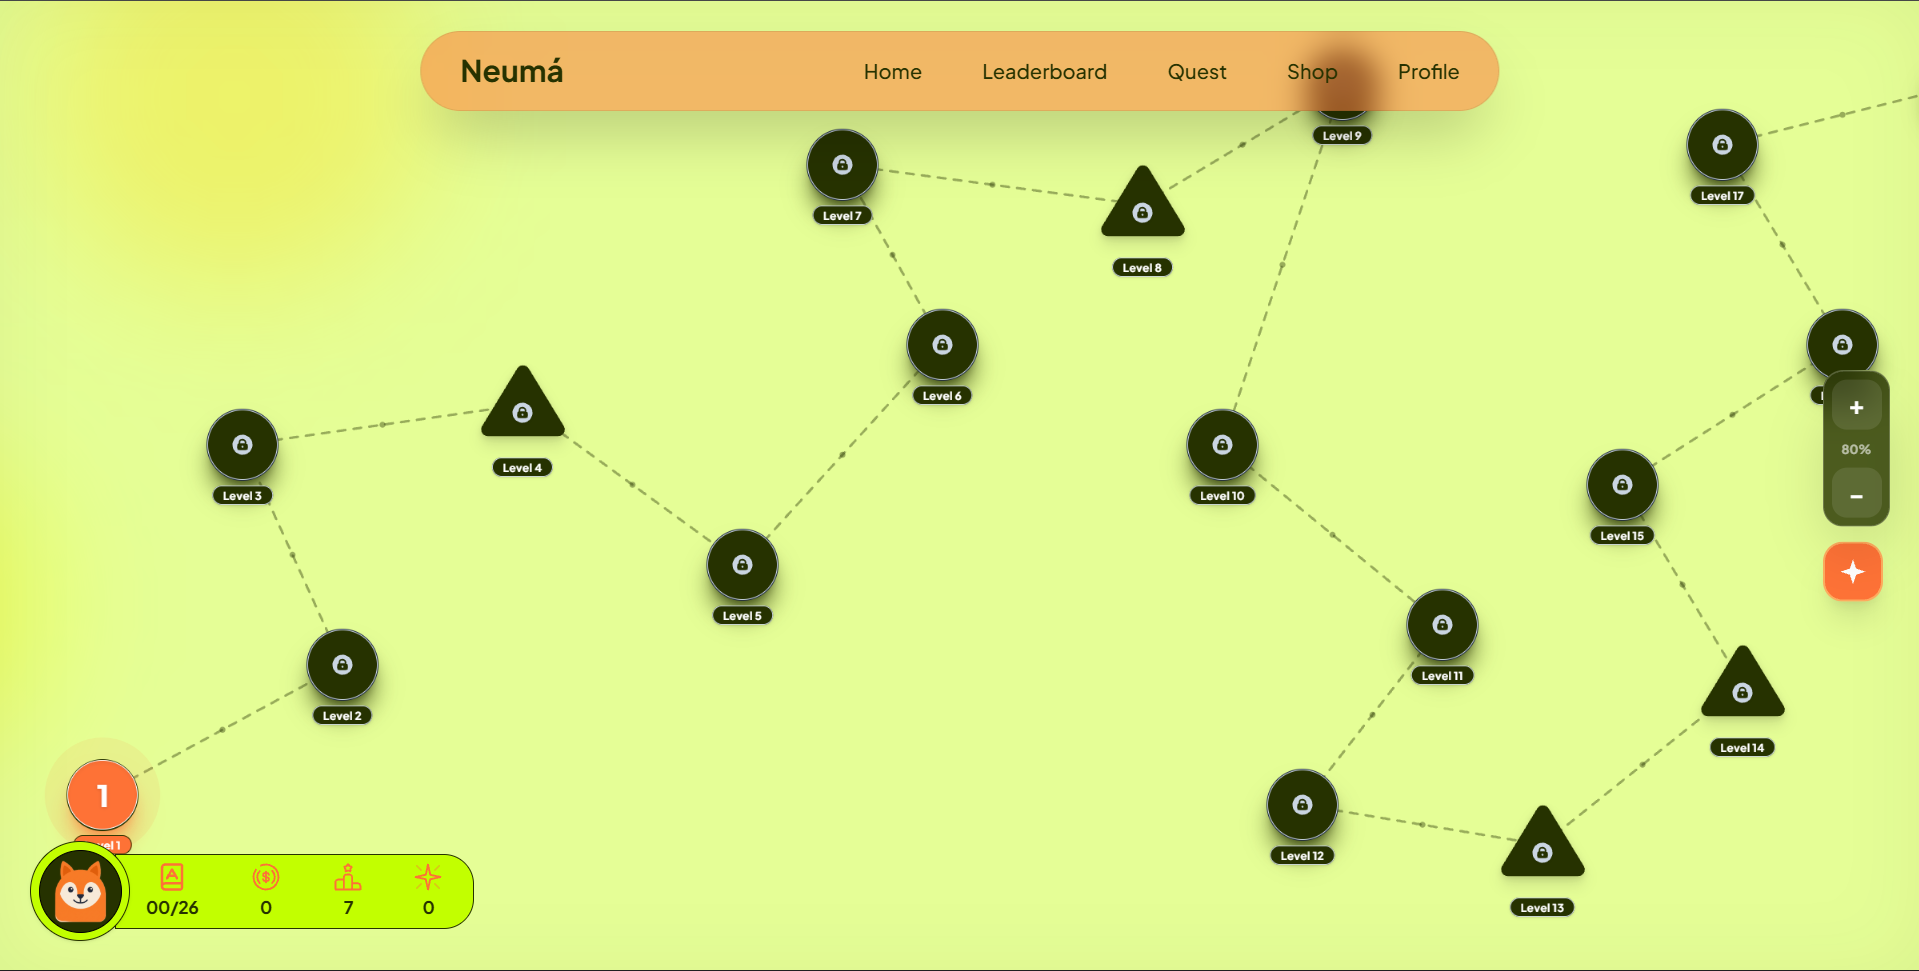
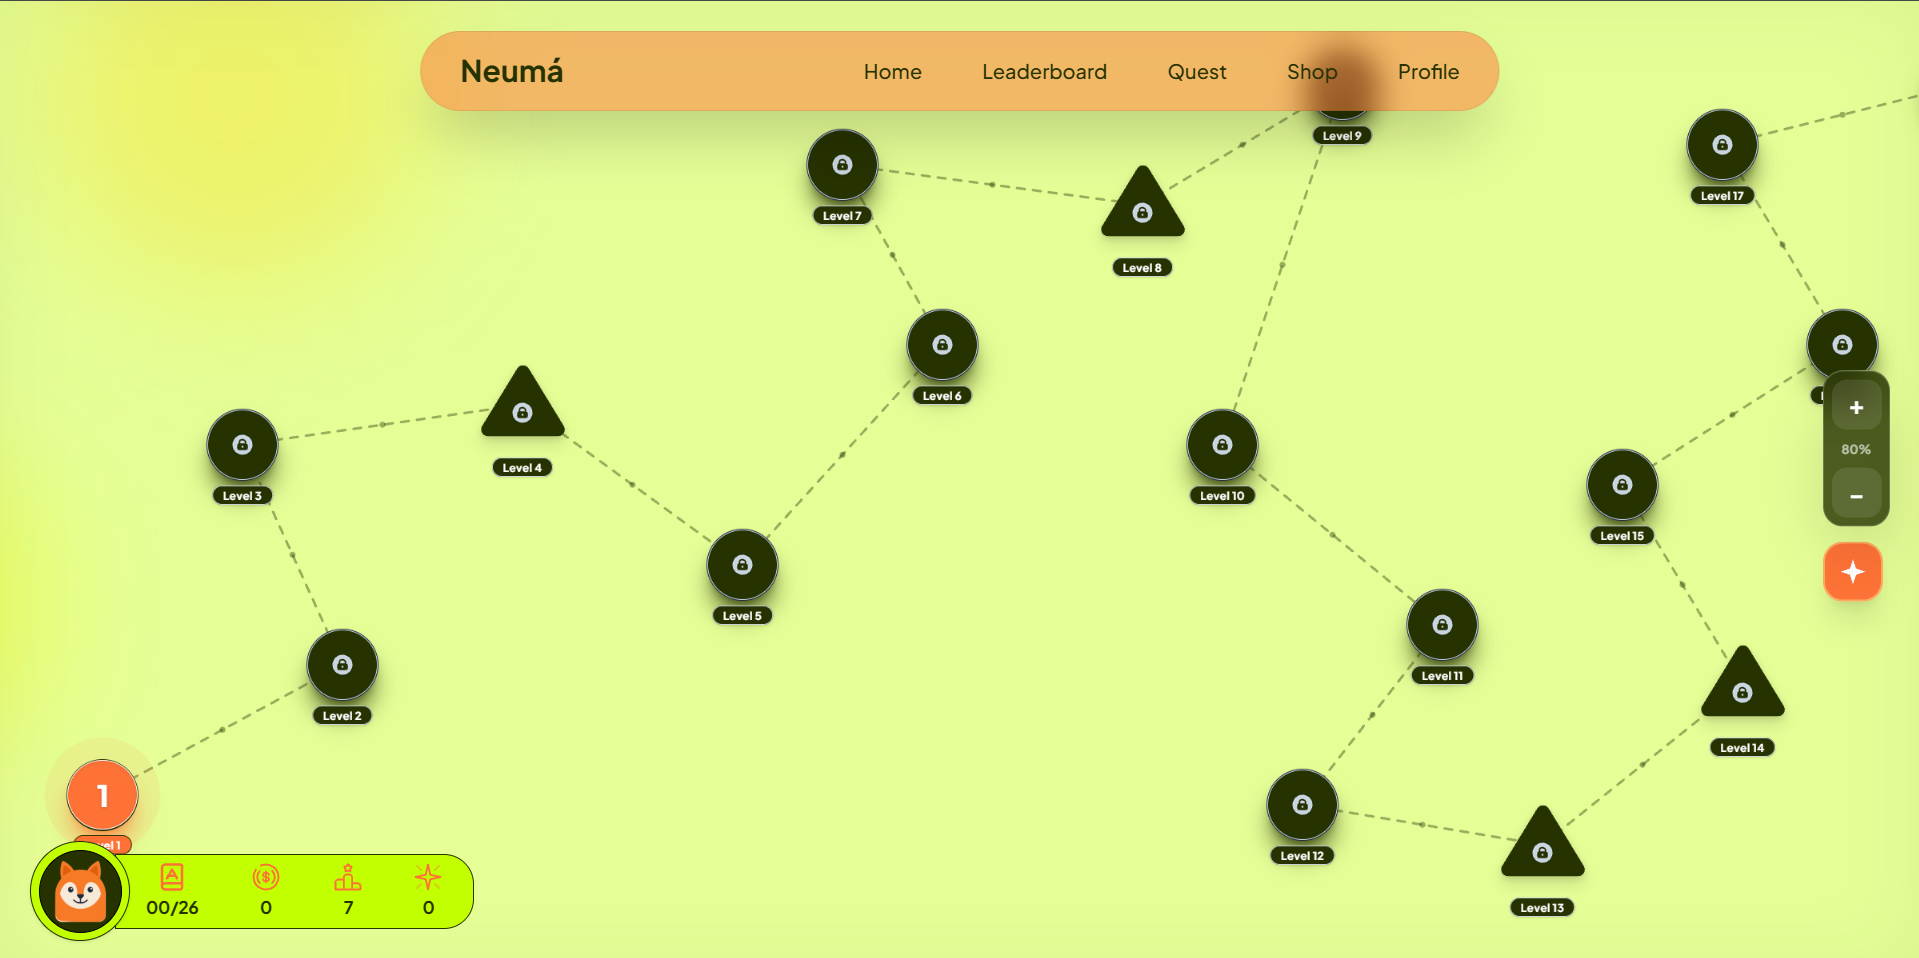
fix: static page style

diff --git a/src/App.jsx b/src/App.jsx
@@ -173,8 +173,8 @@ function App() {
         <TopBar brand='Neumá' links={navLinks} />
         <div className='flex flex-col items-center animate-fade-in-up'>
           <div className=''>
-            <h1 className='text-tertiary text-5xl text-center p-6'>Neumá</h1>
-            <h3 className='text-secondary text-2xl text-center font-medium mb-6'>Break the Silence, Bridge the World.</h3>
+            <h1 className='text-tertiary text-4xl md:text-5xl text-center p-4 md:p-6'>Neumá</h1>
+            <h3 className='text-secondary text-;lg md:text-2xl text-center font-medium mb-6'>Break the Silence, Bridge the World.</h3>
           </div>
           <div className='flex flex-col md:flex-row gap-2 md:gap-6'>
             <FillRoundedButton
@@ -212,7 +212,7 @@ function App() {
 
       <div className='bg-primary h-[40vh] lg:h-screen md:px-8 lg:px-16'>
         <div className='h-full w-full bg-tertiary md:rounded-t-4xl flex flex-col md:justify-between'>
-          <div className='text-lg md:text-3xl lg:text-4xl py-10 font-bold  text-primary flex flex-col items-center justify-center'>
+          <div className='text-lg md:text-3xl lg:text-4xl px-4 py-6 md:py-10 font-bold  text-primary flex flex-col items-center justify-center'>
             <span className='text-center'>
               {lang === 'id' ? "Rasakan pengalaman baru dalam belajar bahasa isyarat" : "Experience a new experience in learning sign language"}
             </span>
@@ -225,19 +225,19 @@ function App() {
       </div>
 
       <div ref={sectionRef} className='bg-primary h-[400vh] relative'>
-        <div className='sticky top-0 h-screen px-16 flex flex-col justify-center items-center text-6xl font-bold gap-8 overflow-hidden'>
+        <div className='sticky top-0 h-screen px-16 flex flex-col justify-center items-center text-5xl md:text-6xl font-bold gap-8 overflow-hidden'>
 
           {/* Mascots Background */}
-          <img src={mascot_1} alt="Mascot 1" className='absolute top-[10%] left-[10%] float-1 w-20 md:w-32 object-contain' />
-          <img src={mascot_2} alt="Mascot 2" className='absolute top-[15%] right-[12%] float-2 w-24 md:w-36 object-contain' />
-          <img src={mascot_3} alt="Mascot 3" className='absolute bottom-[15%] left-[8%] float-3 w-16 md:w-28 object-contain' />
-          <img src={mascot_4} alt="Mascot 4" className='absolute bottom-[10%] right-[10%] float-4 w-20 md:w-32 object-contain' />
-          <img src={mascot_5} alt="Mascot 5" className='absolute top-[40%] left-[5%] float-4 w-16 md:w-28 object-contain' />
-          <img src={mascot_6} alt="Mascot 6" className='absolute top-[45%] right-[5%] float-3 w-20 md:w-32 object-contain' />
+          <img src={mascot_1} alt="Mascot 1" className='absolute top-[10%] left-[10%] float-1 w-15 md:w-32 object-contain' />
+          <img src={mascot_2} alt="Mascot 2" className='absolute top-[15%] right-[12%] float-2 w-20 md:w-36 object-contain' />
+          <img src={mascot_3} alt="Mascot 3" className='absolute bottom-[15%] left-[8%] float-3 w-11 md:w-28 object-contain' />
+          <img src={mascot_4} alt="Mascot 4" className='absolute bottom-[10%] right-[10%] float-4 w-15 md:w-32 object-contain' />
+          <img src={mascot_5} alt="Mascot 5" className='absolute top-[40%] left-[5%] float-4 w-11 md:w-28 object-contain' />
+          <img src={mascot_6} alt="Mascot 6" className='absolute top-[45%] right-[5%] float-3 w-15 md:w-32 object-contain' />
           <img src={mascot_7} alt="Mascot 7" className='absolute top-[5%] left-[45%] float-1 w-12 md:w-24 object-contain' />
-          <img src={mascot_8} alt="Mascot 8" className='absolute bottom-[5%] left-[45%] float-2 w-16 md:w-28 object-contain' />
-          <img src={mascot_9} alt="Mascot 9" className='absolute top-[30%] left-[25%] float-2 w-12 md:w-20 object-contain' />
-          <img src={mascot_10} alt="Mascot 10" className='absolute bottom-[30%] right-[25%] float-1 w-16 md:w-24 object-contain' />
+          <img src={mascot_8} alt="Mascot 8" className='absolute bottom-[5%] left-[45%] float-2 w-12 md:w-28 object-contain' />
+          <img src={mascot_9} alt="Mascot 9" className='absolute top-[30%] left-[25%] float-2 w-13 md:w-20 object-contain' />
+          <img src={mascot_10} alt="Mascot 10" className='absolute bottom-[30%] right-[25%] float-1 w-11 md:w-24 object-contain' />
 
           {/* Texts */}
           <span style={getSpanStyle(0)} className='relative z-10 text-center'>
@@ -258,14 +258,14 @@ function App() {
             ref={bottomSectionRef}
             className={`flex flex-col h-full gap-4 justify-center items-center ${isBottomVisible ? 'animate-fade-in-up' : 'opacity-0'}`}
           >
-            <span className='text-center text-2xl md:text-3xl font-bold '>
+            <span className='text-center text-xl md:text-3xl font-bold'>
               {lang === 'id' ? (
                 <>Bahasa Baru di Genggaman Anda <br /> Dunia Baru dalam Jangkauan Anda</>
               ) : (
                 <>A New Language in Your Hands <br /> A Whole New World in Your Reach</>
               )}
             </span>
-            <span className='text-center text-base'>
+            <span className='text-center text-sm md:text-base'>
               {lang === 'id' ? "Mulai belajar Bahasa Isyarat bersama Neumá hari ini!" : "Start learning Sign Language with Neumá today!"}
             </span>
             <div className='flex flex-col items-center'>

diff --git a/src/features/auth/pages/registerPage.jsx b/src/features/auth/pages/registerPage.jsx
@@ -127,15 +127,15 @@ export default function RegisterPage({ onClose, onSwitchToLogin, lang = 'id' }) 
         </svg>
       </button>
 
-      <div className="flex flex-col items-center gap-6 mb-16 md:mb-20 text-center">
-        <h2 className="text-5xl font-medium text-tertiary">Neumá</h2>
-        <h3 className="text-xl md:text-2xl font-semibold text-secondary">
+      <div className="flex flex-col items-center gap-4 mb-10 md:mb-20 text-center">
+        <h2 className="text-3xl md:text-5xl font-medium text-tertiary">Neumá</h2>
+        <h3 className="text-base md:text-2xl font-semibold text-secondary">
           Break the Silence, Bridge the World.
         </h3>
       </div>
 
-      <div className="flex flex-col items-center gap-6 w-full max-w-md">
-        <h3 className="text-2xl font-medium text-tertiary">
+      <div className="flex flex-col items-center gap-4 md:gap-6 w-full max-w-md">
+        <h3 className="text-xl md:text-2xl font-medium text-tertiary">
           {lang === 'id' ? "Buat profil Anda" : "Create your profile"}
         </h3>
 
@@ -154,7 +154,7 @@ export default function RegisterPage({ onClose, onSwitchToLogin, lang = 'id' }) 
             placeholder={lang === 'id' ? "Nama Pengguna (opsional)" : "Username (optional)"}
             value={username}
             onChange={(e) => setUsername(e.target.value)}
-            className="bg-tertiary/30 text-tertiary placeholder-tertiary/60 px-4 py-2 text-xl rounded-lg focus:outline-none focus:ring-2 focus:ring-secondary"
+            className="bg-tertiary/30 text-tertiary placeholder-tertiary/60 px-4 py-2 text-base md:text-xl rounded-lg focus:outline-none focus:ring-2 focus:ring-secondary"
           />
           <input
             type="email"
@@ -162,7 +162,7 @@ export default function RegisterPage({ onClose, onSwitchToLogin, lang = 'id' }) 
             required
             value={email}
             onChange={(e) => setEmail(e.target.value)}
-            className="bg-tertiary/30 text-tertiary placeholder-tertiary/60 px-4 py-2 text-xl rounded-lg focus:outline-none focus:ring-2 focus:ring-secondary"
+            className="bg-tertiary/30 text-tertiary placeholder-tertiary/60 px-4 py-2 text-base md:text-xl rounded-lg focus:outline-none focus:ring-2 focus:ring-secondary"
           />
           <input
             type="password"
@@ -171,7 +171,7 @@ export default function RegisterPage({ onClose, onSwitchToLogin, lang = 'id' }) 
             required
             value={password}
             onChange={(e) => setPassword(e.target.value)}
-            className="bg-tertiary/30 text-tertiary placeholder-tertiary/60 px-4 py-2 text-xl rounded-lg focus:outline-none focus:ring-2 focus:ring-secondary"
+            className="bg-tertiary/30 text-tertiary placeholder-tertiary/60 px-4 py-2 text-base md:text-xl rounded-lg focus:outline-none focus:ring-2 focus:ring-secondary"
           />
           <ActionButton
             type="submit"
@@ -193,7 +193,7 @@ export default function RegisterPage({ onClose, onSwitchToLogin, lang = 'id' }) 
               type="button"
               disabled={isLoading}
               onClick={() => triggerGoogleLogin()}
-              classes="bg-white rounded-full w-full border border-tertiary hover:bg-gray-200 py-3 text-xl font-medium"
+              classes="bg-white rounded-full w-full border border-tertiary hover:bg-gray-200 py-3 text-base md:text-xl font-medium"
               svg={<GoogleIcon />}
               text={lang === 'id' ? "Daftar dengan Google" : "Sign up with Google"}
             />

diff --git a/src/features/auth/pages/loginPage.jsx b/src/features/auth/pages/loginPage.jsx
@@ -124,15 +124,15 @@ export default function LoginPage({ onClose, onSwitchToRegister, lang = 'id' }) 
         </svg>
       </button>
 
-      <div className="flex flex-col items-center gap-6 mb-16 md:mb-20 text-center">
-        <h2 className="text-5xl font-medium text-tertiary">Neumá</h2>
-        <h3 className="text-xl md:text-2xl font-semibold text-secondary">
+      <div className="flex flex-col items-center gap-4 mb-10 md:mb-20 text-center">
+        <h2 className="text-3xl md:text-5xl font-medium text-tertiary">Neumá</h2>
+        <h3 className="text-base md:text-2xl font-semibold text-secondary">
           Break the Silence, Bridge the World.
         </h3>
       </div>
 
-      <div className="flex flex-col items-center gap-6 w-full max-w-md">
-        <h3 className="text-2xl font-medium text-tertiary">{lang === 'id' ? "Masuk" : "Log In"}</h3>
+      <div className="flex flex-col items-center gap-4 md:gap-6 w-full max-w-md">
+        <h3 className="text-xl md:text-2xl font-medium text-tertiary">{lang === 'id' ? "Masuk" : "Log In"}</h3>
 
         {errorMessage && (
           <div className="w-full bg-red-100 border border-red-400 text-red-700 px-4 py-3 rounded-lg text-sm text-center">
@@ -150,7 +150,7 @@ export default function LoginPage({ onClose, onSwitchToRegister, lang = 'id' }) 
             required
             value={email}
             onChange={(e) => setEmail(e.target.value)}
-            className="bg-tertiary/30 text-tertiary placeholder-tertiary/60 px-4 py-2 text-xl rounded-lg focus:outline-none focus:ring-2 focus:ring-secondary"
+            className="bg-tertiary/30 text-tertiary placeholder-tertiary/60 px-4 py-2 text-base md:text-xl rounded-lg focus:outline-none focus:ring-2 focus:ring-secondary"
           />
           <input
             type="password"
@@ -158,7 +158,7 @@ export default function LoginPage({ onClose, onSwitchToRegister, lang = 'id' }) 
             required
             value={password}
             onChange={(e) => setPassword(e.target.value)}
-            className="bg-tertiary/30 text-tertiary placeholder-tertiary/60 px-4 py-2 text-xl rounded-lg focus:outline-none focus:ring-2 focus:ring-secondary"
+            className="bg-tertiary/30 text-tertiary placeholder-tertiary/60 px-4 py-2 text-base md:text-xl rounded-lg focus:outline-none focus:ring-2 focus:ring-secondary"
           />
           <ActionButton
             type="submit"
@@ -180,7 +180,7 @@ export default function LoginPage({ onClose, onSwitchToRegister, lang = 'id' }) 
               type="button"
               disabled={isLoading}
               onClick={() => triggerGoogleLogin()}
-              classes="bg-white rounded-full w-full border border-tertiary hover:bg-gray-200 py-3 text-xl font-medium"
+              classes="bg-white rounded-full w-full border border-tertiary hover:bg-gray-200 py-3 text-base md:text-xl font-medium"
               svg={<GoogleIcon />}
               text={lang === 'id' ? "Masuk dengan Google" : "Sign in with Google"}
             />

diff --git a/src/components/layout/footer.jsx b/src/components/layout/footer.jsx
@@ -4,7 +4,7 @@ export default function Footer() {
     return (
         <footer className='bg-tertiary sticky bottom-0 z-0 h-[60vh] md:h-[30vh] lg:h-[50vh] flex flex-col items-center justify-between py-10 px-6 text-center'>
             <div className='flex flex-col items-center gap-2'>
-                <span className='text-4xl font-bold text-neon'>Neumá</span>
+                <span className='text-3xl md:text-4xl font-bold text-neon'>Neumá</span>
                 <span className='text-neon font-medium max-w-md'>
                     Break the Silence, Bridge the World.
                 </span>
@@ -16,7 +16,7 @@ export default function Footer() {
                 <Link to="/privacy" className='hover:text-neon/70 transition-colors'>Privacy Policy</Link>
                 <Link to="/terms" className='hover:text-neon/70 transition-colors'>Terms of Service</Link>
             </div>
-            <span className='text-sm text-neon font-medium'>© 2026 Neumá. All rights reserved.</span>
+            <span className='text-xs text-neon font-medium'>© 2026 Neumá. All rights reserved.</span>
         </footer>
     );
 }

diff --git a/src/components/common/topBar.jsx b/src/components/common/topBar.jsx
@@ -52,7 +52,7 @@ export default function TopBar({
             </button>
 
             {isMenuOpen && (
-                <div className="absolute top-full left-0 right-0 mt-2 bg-secondary/50 backdrop-blur-md rounded-2xl p-4 flex flex-col gap-4 md:hidden">
+                <div className="absolute top-full left-0 right-0 mt-2 bg-orange-300 backdrop-blur-md rounded-2xl p-4 flex flex-col gap-4 md:hidden">
                     {finalLinks.map((link, index) => (
                         <a
                             key={link.id || index}

diff --git a/vite.config.js b/vite.config.js
@@ -5,4 +5,9 @@ import tailwindcss from '@tailwindcss/vite'
 // https://vite.dev/config/
 export default defineConfig({
   plugins: [react(), tailwindcss()],
+  server: {
+    host: true,
+    port: 5173,
+    allowedHosts: true,
+  },
 })
